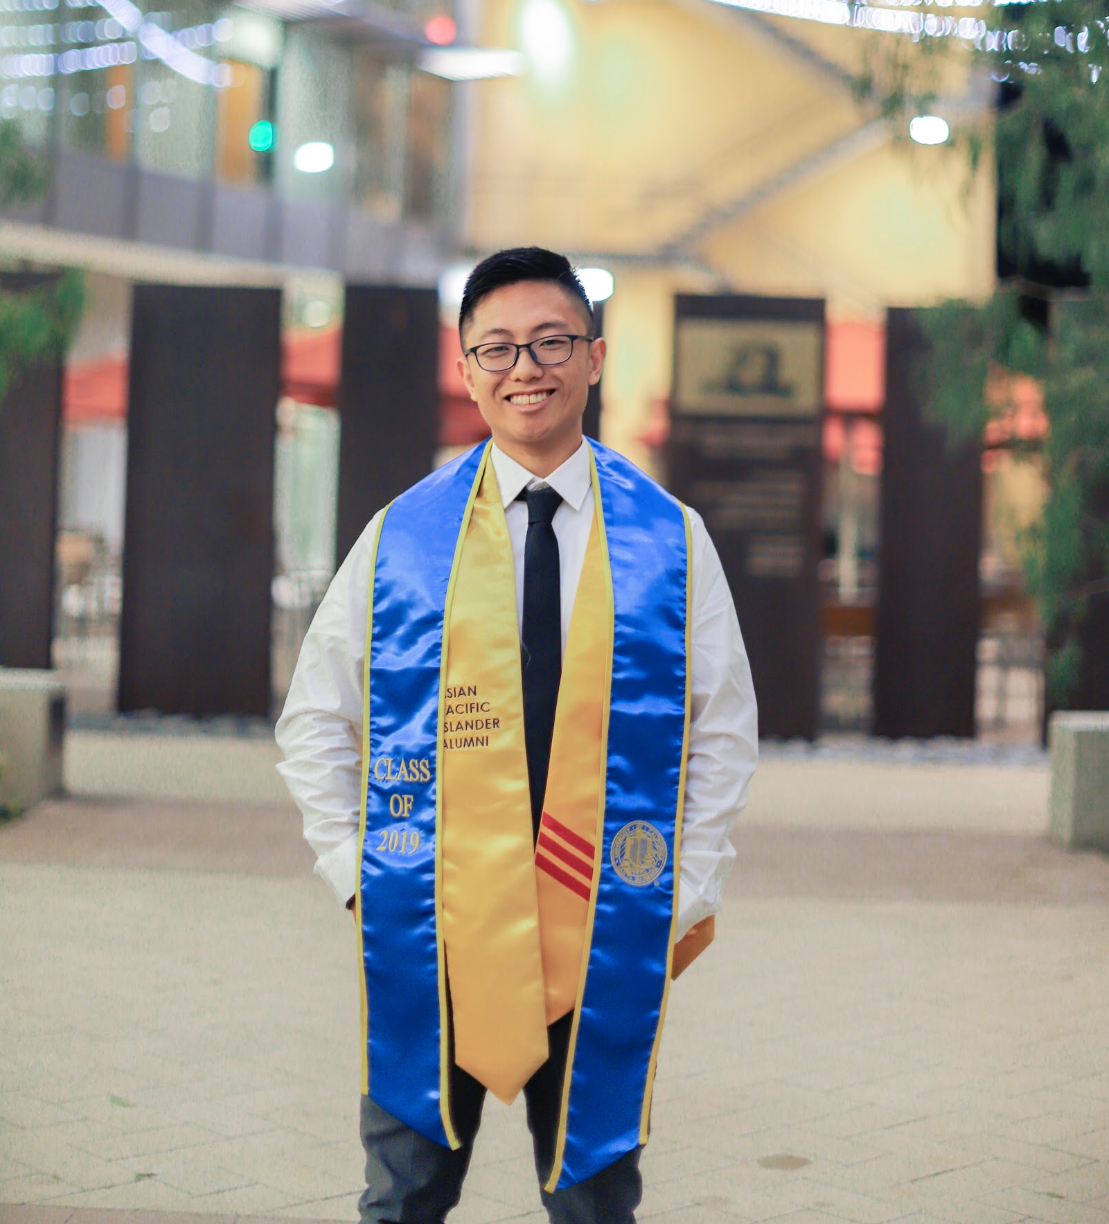
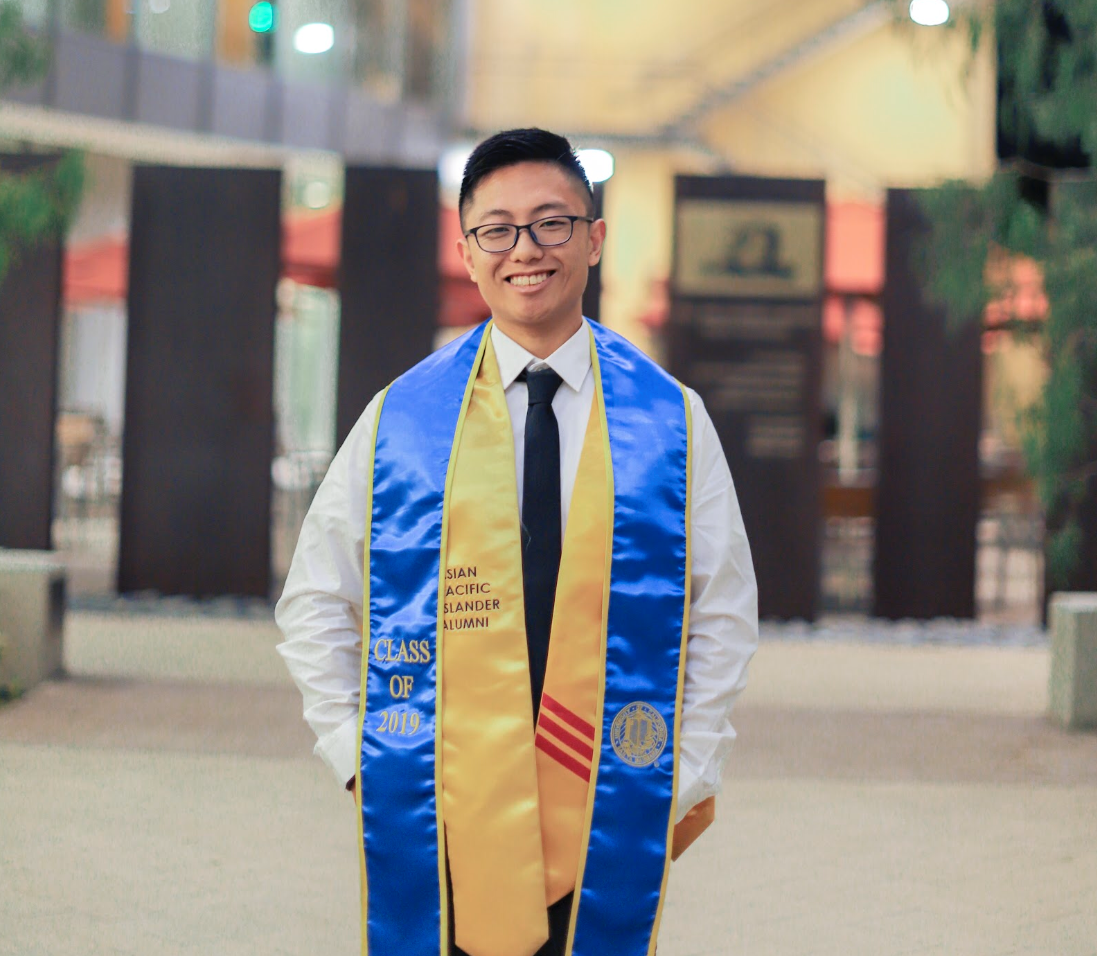
updated home picture

diff --git a/public/css/main.css b/public/css/main.css
@@ -3535,9 +3535,9 @@ input, select, textarea {
 				#banner .content .image img {
 					/* border-radius: 100%; */
 					display: block;
-					width: 100%;
-					margin-top: -40px;
-					margin-right: -50px;
+					width: 200%;
+					margin-top: -10px;
+					margin-left: -170px;
 				}
 
 				#banner .content .icons {
